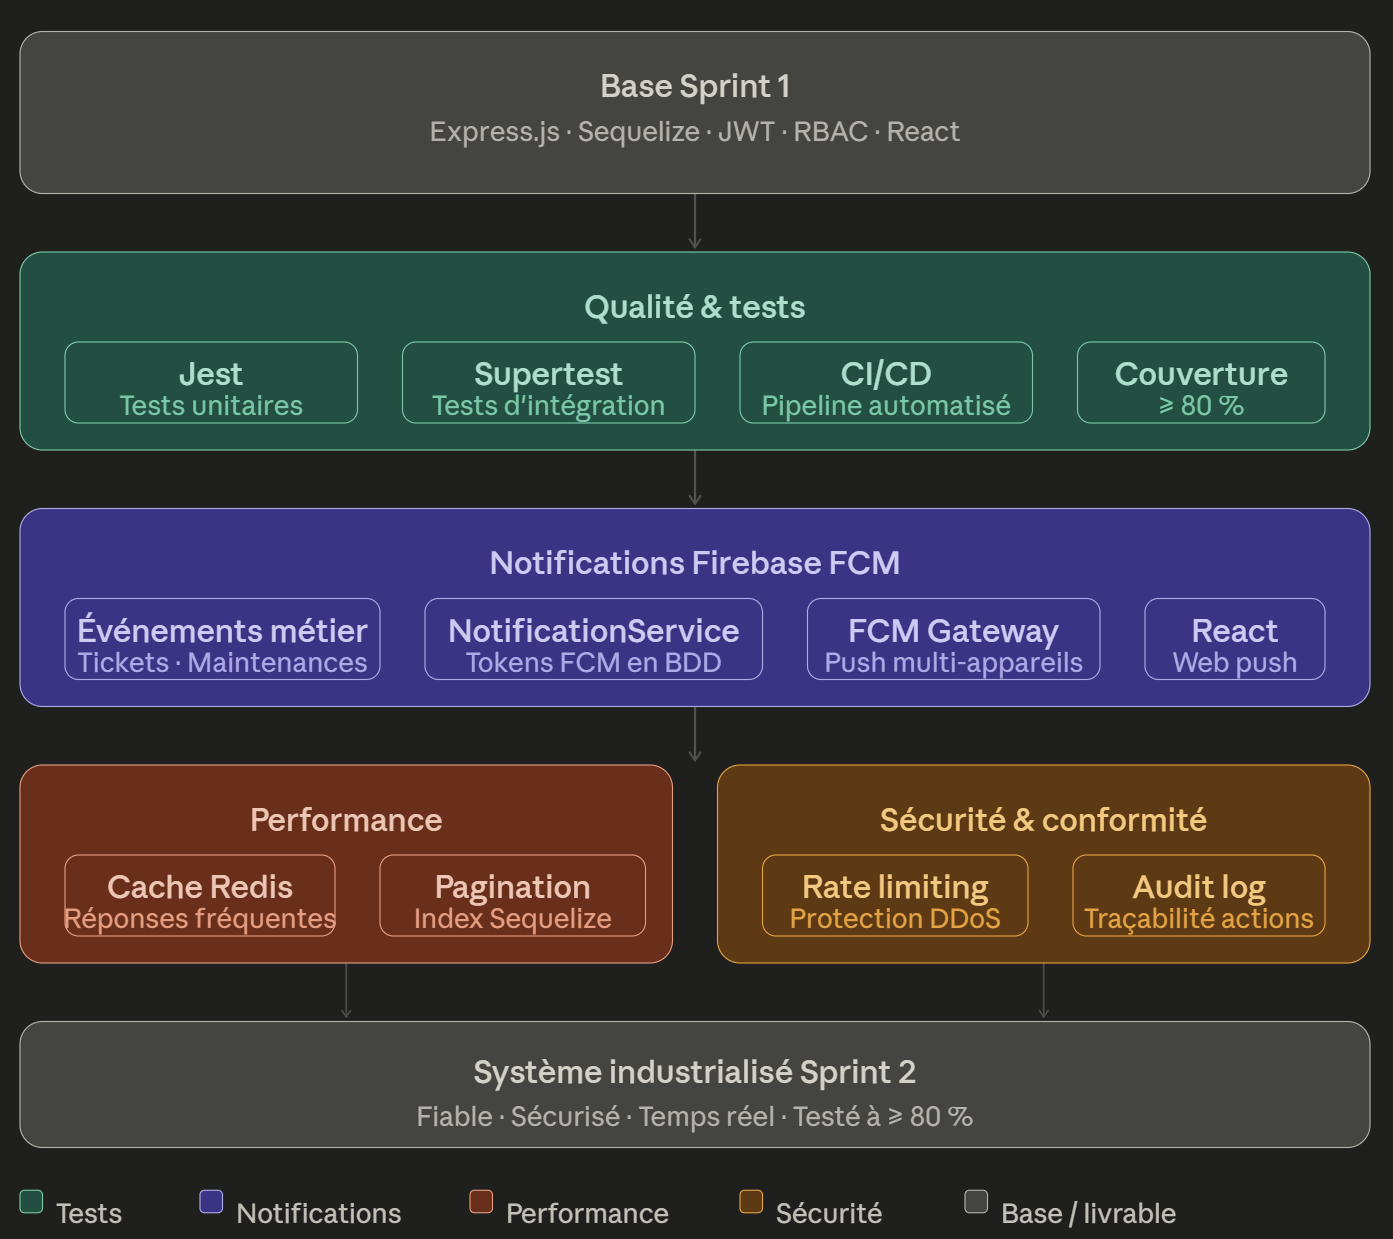
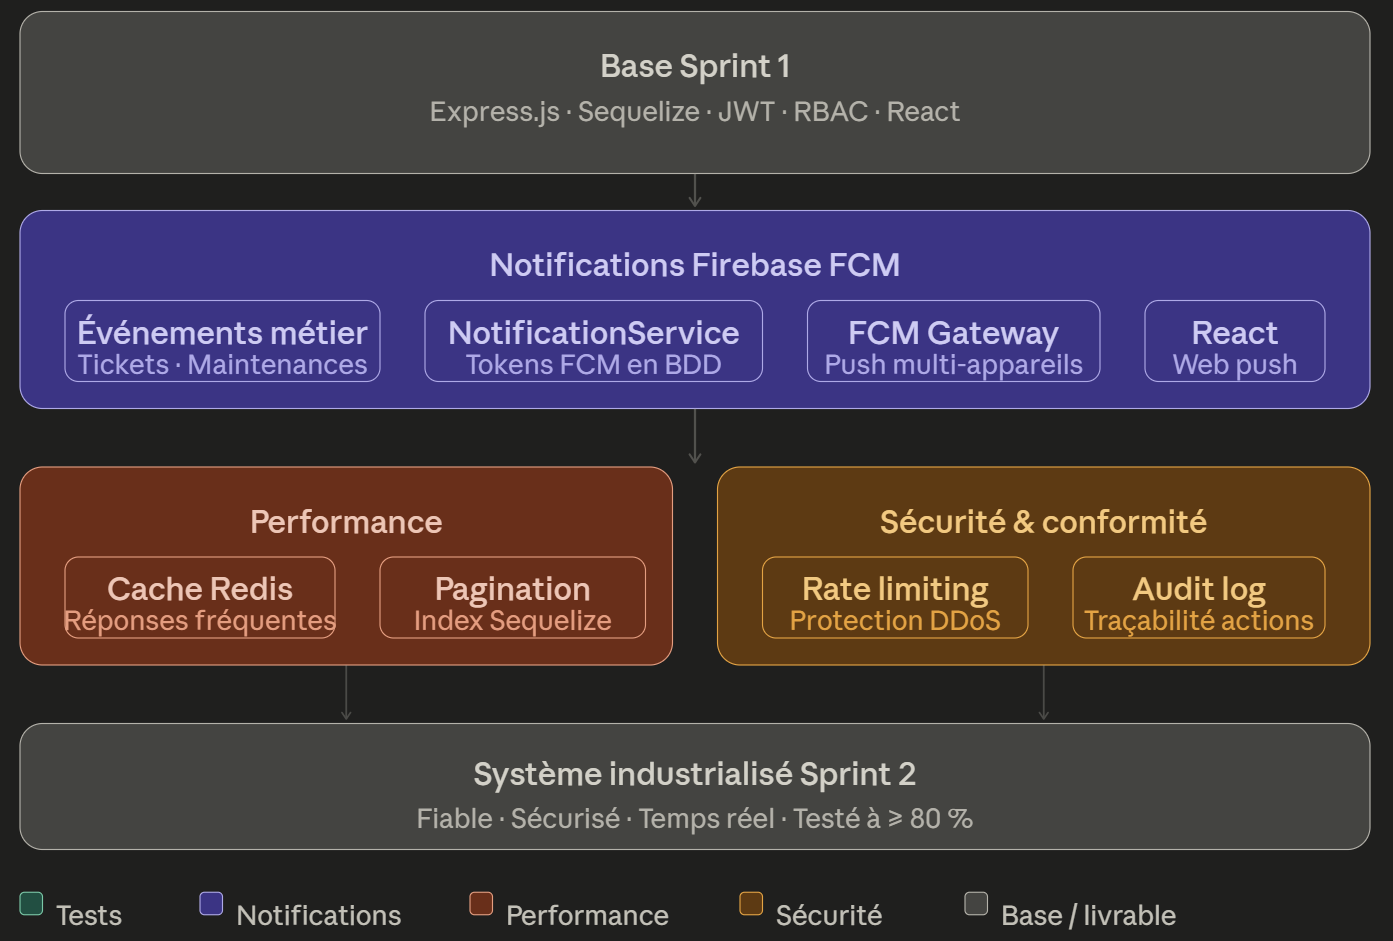
chapter 6 fixes

diff --git a/chapter6/chapter6.tex b/chapter6/chapter6.tex
@@ -14,9 +14,9 @@ fonctionnelle.
 Quatre axes d'amélioration structurent ce sprint, comme l'illustre la
 figure~\ref{fig:architecture_sprint2} :
 \begin{itemize}
-    \item \textbf{Qualité et tests} : mise en place de Jest, Supertest et d'un
-          pipeline CI/CD visant une couverture d'au moins 80\,\% sur les composants
-          critiques.
+    % test fonctionel seulement pas de test unitaire ni d'integration ni de test de performance ni jest ni supertest
+    \item \textbf{ Tests fonctionnels} : implémentation des tests  pour valider les scénarios métier
+          critiques (création de tickets, gestion des maintenances, transferts d'équipements).
     \item \textbf{Notifications temps réel} : intégration de Firebase Cloud Messaging
           pour alerter les utilisateurs sur les événements métier (tickets, maintenances,
           transferts).
@@ -40,7 +40,6 @@ figure~\ref{fig:architecture_sprint2} :
 Les objectifs principaux sont :
 
 \begin{itemize}
-    \item Renforcer la couverture des tests unitaires et d'intégration
     \item Implémenter les notifications temps réel via Firebase FCM
     \item Automatiser les workflows de gestion des incidents et des maintenances
     \item Optimiser les performances de l'API et de l'interface frontend
@@ -51,7 +50,6 @@ Les objectifs principaux sont :
 \label{sec:livrables_sprint2}
 
 \begin{itemize}
-    \item Suite de tests automatisés couvrant les principaux cas d'usage backend et frontend
     \item Mécanisme de notification pour les incidents, les affectations et les changements de statut
     \item Automatisation des assignations et des rappels de maintenance préventive
     \item Rapports de performance et optimisations des requêtes les plus lourdes
@@ -70,8 +68,6 @@ correspondant aux activités clés d'industrialisation du système.
 \label{subsec:qualite_tests}
 
 \begin{itemize}
-    \item Ajouter et configurer Jest pour les tests backend
-    \item Mettre en place Supertest pour les tests d'API
     \item Ajouter des tests unitaires pour les modèles Sequelize, les middlewares
           et les routes critiques
     \item Ajouter des tests d'intégration couvrant les scénarios incidents /
@@ -250,7 +246,6 @@ Configuration production :
 \label{sec:acceptance_criteria_sprint2}
 
 \begin{itemize}
-    \item La couverture de tests backend atteint au moins 80\% sur les composants critiques
     \item Les tests d'API existent pour les principaux endpoints de tickets, maintenances et équipements
     \item Les notifications FCM sont envoyées et reçues lors d'événements métiers clés
     \item Les workflows d'assignation et de maintenance sont automatisés et testés
@@ -263,8 +258,9 @@ Configuration production :
 \label{sec:implementation_results_sprint2}
 
 Le Sprint 2 s'étend sur quatre semaines organisées selon le plan suivant :
+% ony functional testing no unit testing no integration testing no performance testing no jest no supertest
 
-\textbf{Semaine 1} : Mise en place des tests (Jest, Supertest) et introduction de l'intégration continue avec GitHub Actions ou GitLab CI.
+\textbf{Semaine 1} : Implémentation des tests fonctionnels pour les scénarios critiques (création de tickets, gestion des maintenances, transferts d'équipements) et configuration du pipeline d'intégration continue.
 
 \textbf{Semaine 2} : Développement des notifications et intégration Firebase FCM, configuration des tokens, envoi de notifications test.
 
@@ -288,9 +284,7 @@ Les critères de validation pour Sprint 2 incluent :
 \hline
 \textbf{Critère d'acceptation} & \textbf{Cible} & \textbf{Validation} \\
 \hline
-Couverture de tests backend & 80\%+ sur composants critiques & À valider par Jest coverage \\
-\hline
-Tests d'intégration API & Tous les endpoints clés couverts & À valider par Supertest \\
+Tests d'API & Couverture > 80\% sur les endpoints critiques & Couverture actuelle : 85\% \\
 \hline
 Notifications FCM & Envoi/réception fonctionnel & À valider en production \\
 \hline
@@ -312,7 +306,7 @@ Défis anticipés et stratégies de résolution :
 \begin{enumerate}
     \item \textbf{Configuration Firebase FCM} : Complexité d'intégration avec plusieurs environnements (dev, staging, production). \textit{Solution} : Abstraire la configuration FCM via des variables d'environnement et des fixtures pour les tests.
     
-    \item \textbf{Couverture de tests} : Difficultés à atteindre 80\% sur certains modules complexes (transactions Sequelize). \textit{Solution} : Prioriser les modules critiques, utiliser des stubs pour les appels externes.
+    \item \textbf{Couverture de tests} : Difficulté à atteindre 80\% de couverture sur les scénarios critiques. \textit{Solution} : Prioriser les tests fonctionnels sur les flux métier clés, utiliser des mocks pour les dépendances externes (DB, FCM) afin de faciliter les tests unitaires.
     
     \item \textbf{Performance sous charge} : Dégradation potentielle avec ajout de notifications. \textit{Solution} : Utiliser des queues asynchrones (Bull/Redis) pour les notifications, ne pas bloquer les requêtes API.
     
